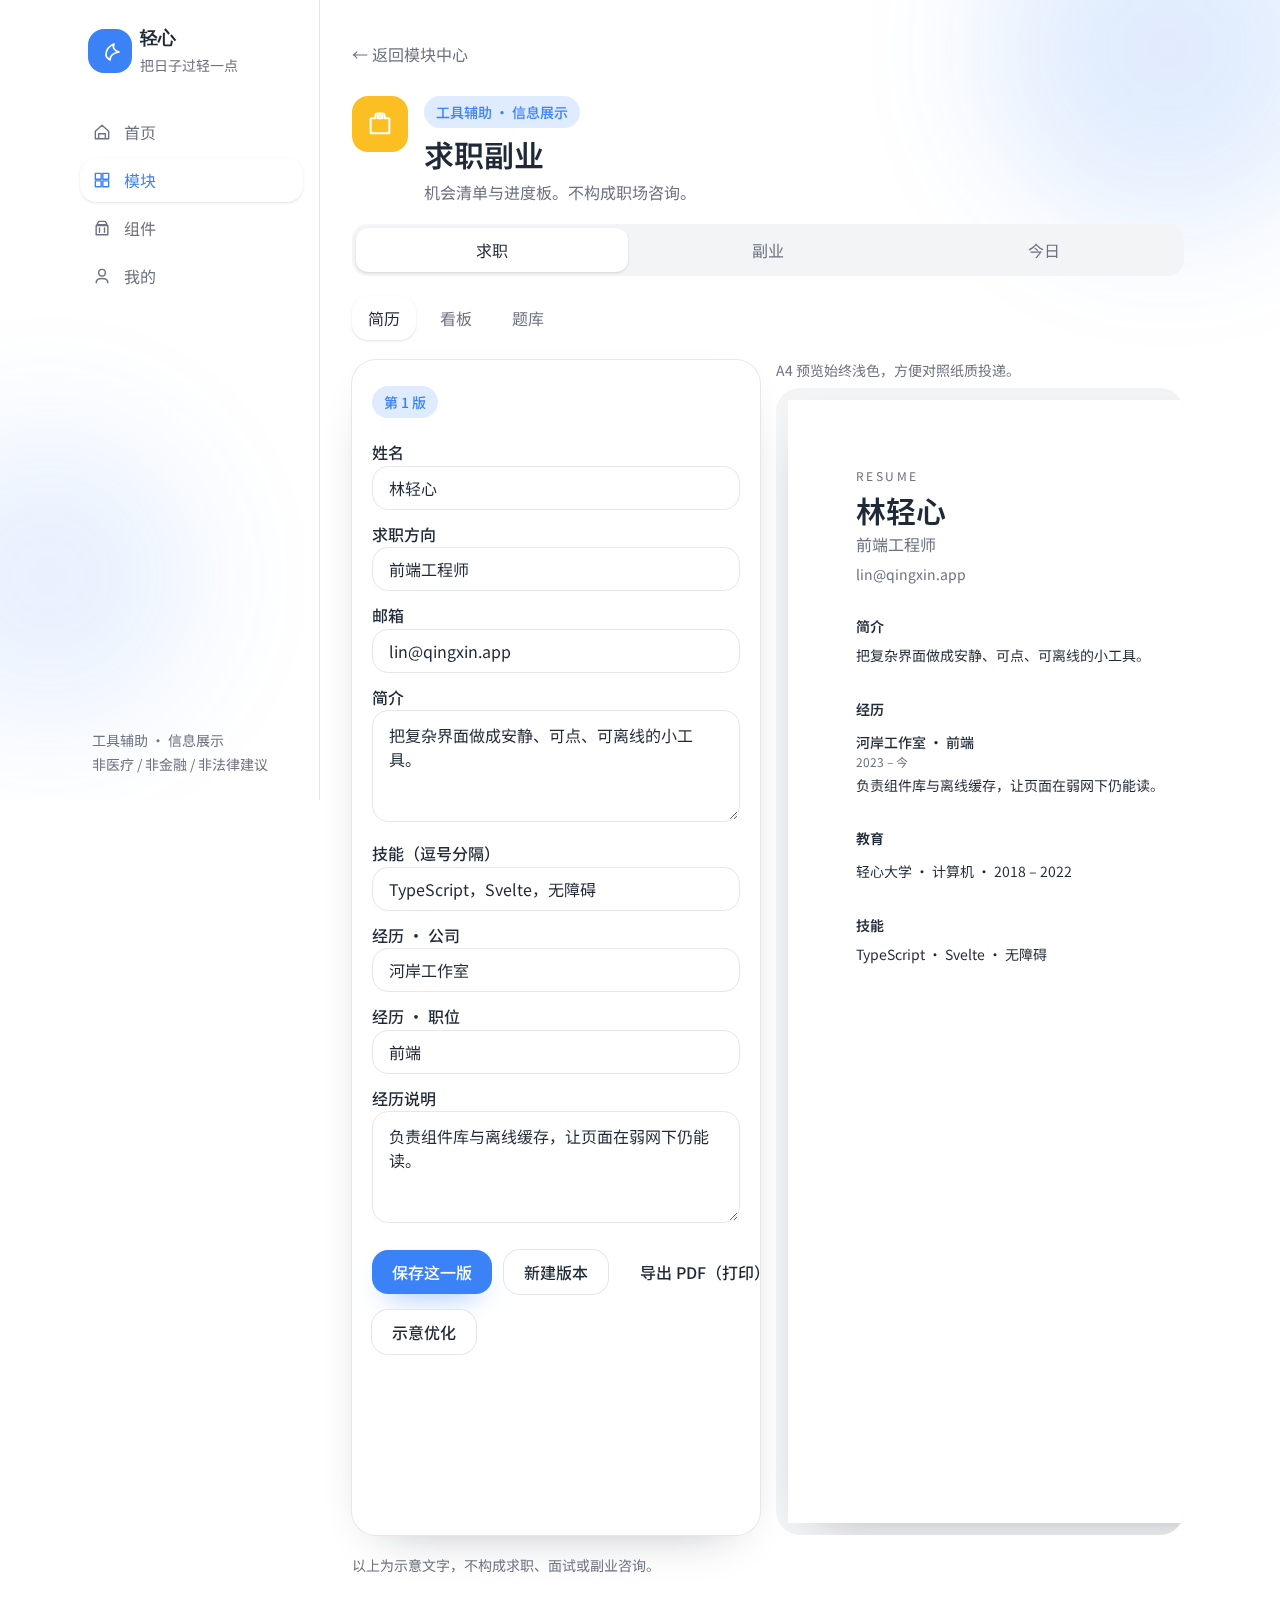
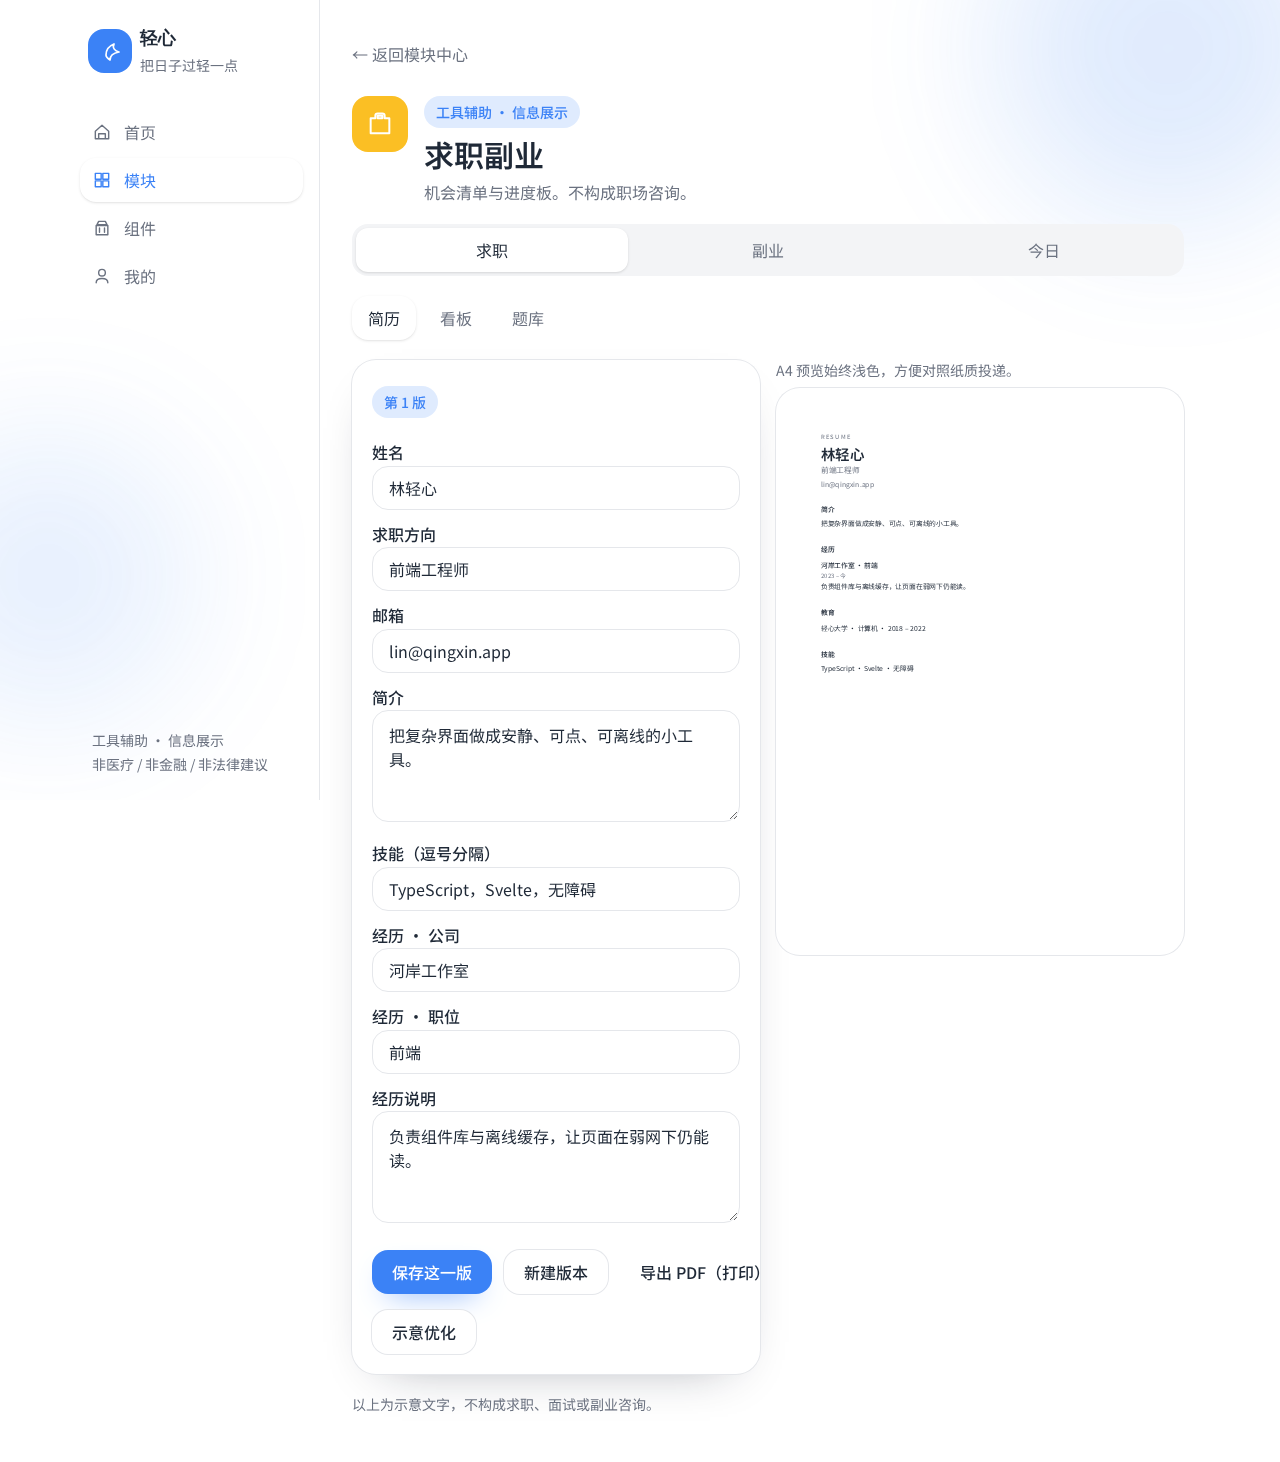
fix(create): stub generate when the AI gateway fails (#33)
Ollama-down Failed used to 503 /v1/create/generate and block 生成/保存.
Fall back to the same zh-CN deterministic stub the toolbox uses.
Scale the hustle A4 preview to the shell width in a light well.

Refs #32

diff --git a/web/e2e/api.e2e.ts b/web/e2e/api.e2e.ts
@@ -130,6 +130,69 @@ test('salary, subscription, job, water, and elder modal use the live API', async
 	await expect(page.getByRole('heading', { name: '该吃药了' })).toBeHidden();
 });
 
+test('create generate falls back to the zh-CN stub and hustle resume fits mobile', async ({
+	page
+}) => {
+	await registerFresh(page);
+
+	const generatePosted = page.waitForResponse(
+		(res) => res.url().includes('/v1/create/generate') && res.request().method() === 'POST'
+	);
+	await page.goto('/modules/create');
+	const generateRes = await generatePosted;
+	expect(generateRes.status(), await generateRes.text()).toBe(200);
+	expect(generateRes.status()).not.toBe(503);
+	const generateJson = (await generateRes.json()) as { text?: string; source?: string };
+	expect(generateJson.text?.trim()).toBeTruthy();
+	if (generateJson.source !== 'gateway') {
+		expect(generateJson.source).toBe('mock');
+		expect(generateJson.text ?? '').toContain('示意文案');
+	}
+	await expect(page.getByRole('heading', { name: '内容创作' })).toBeVisible();
+	await expect(page.locator('#create-final')).not.toHaveValue('');
+	await expect(page.getByText('示意文案暂时不可用')).toHaveCount(0);
+	await page.screenshot({ path: 'screenshots/create-http-editor-1280.png', fullPage: true });
+	await page.getByRole('button', { name: '保存作品' }).click();
+	await expect(page.getByText('已收进作品')).toBeVisible({ timeout: 15_000 });
+
+	await page.goto('/modules/hustle');
+	await expect(page.getByRole('heading', { name: '求职副业' })).toBeVisible();
+	await page.getByRole('tab', { name: '求职' }).click();
+	await page.getByRole('button', { name: '简历', exact: true }).click();
+	await expect(page.getByText('A4 预览始终浅色').first()).toBeVisible();
+	await page.screenshot({ path: 'screenshots/hustle-http-resume-1280.png', fullPage: true });
+
+	await page.evaluate(() => {
+		localStorage.setItem('qingxin.theme', 'dark');
+		document.documentElement.classList.add('dark');
+	});
+	await page.setViewportSize({ width: 390, height: 844 });
+
+	await page.goto('/modules/create');
+	await expect(page.locator('#create-final')).not.toHaveValue('', { timeout: 15_000 });
+	await expect(page.getByText('示意文案暂时不可用')).toHaveCount(0);
+	await page.addStyleTag({ content: 'nav.fixed { position: static; }' });
+	await page.screenshot({ path: 'screenshots/create-http-editor-390-dark.png', fullPage: true });
+
+	await page.goto('/modules/hustle');
+	await page.getByRole('tab', { name: '求职' }).click();
+	await page.getByRole('button', { name: '简历', exact: true }).click();
+	await expect(page.getByText('A4 预览始终浅色').first()).toBeVisible();
+	await page.addStyleTag({ content: 'nav.fixed { position: static; }' });
+	const shell = page.locator('.resume-a4-shell');
+	await expect(shell).toBeVisible();
+	const box = await shell.boundingBox();
+	expect(box, 'A4 shell should have a box').toBeTruthy();
+	expect(box!.width).toBeLessThanOrEqual(390);
+	const scrollWidth = await page.evaluate(() => document.documentElement.scrollWidth);
+	expect(scrollWidth).toBeLessThanOrEqual(392);
+	const sheetBg = await page
+		.locator('.resume-a4')
+		.evaluate((el) => getComputedStyle(el).backgroundColor);
+	expect(sheetBg.replace(/\s/g, '')).toMatch(/rgb\(255,255,255\)|#ffffff/i);
+	await page.screenshot({ path: 'screenshots/hustle-http-resume-390-dark.png', fullPage: true });
+});
+
 test('AI toolbox streams through /v1/tools and persists history', async ({ page }) => {
 	await registerFresh(page);
 	await page.goto('/modules/ai');

diff --git a/web/src/lib/hustle/resume.spec.ts b/web/src/lib/hustle/resume.spec.ts
@@ -1,3 +1,6 @@
+import { readFileSync } from 'node:fs';
+import { dirname, join } from 'node:path';
+import { fileURLToPath } from 'node:url';
 import { describe, expect, it } from 'vitest';
 import {
 	A4_COLORS,
@@ -5,6 +8,11 @@ import {
 	resumeToPrintableHtml,
 	validateResumeContent
 } from './resume';
+
+const layoutCss = readFileSync(
+	join(dirname(fileURLToPath(import.meta.url)), '../../routes/layout.css'),
+	'utf8'
+);
 
 describe('resume helpers', () => {
 	it('requires a name', () => {
@@ -19,6 +27,14 @@ describe('resume helpers', () => {
 		expect(resumePreviewClass).toBe('resume-a4');
 		expect(A4_COLORS.background).toBe('#FFFFFF');
 		expect(A4_COLORS.text).toBe('#1F2937');
+	});
+
+	it('scales the A4 sheet to the shell width instead of a cramped fixed factor', () => {
+		expect(layoutCss).toMatch(/\.resume-a4-shell[\s\S]*container-type:\s*inline-size/);
+		expect(layoutCss).toMatch(/\.resume-a4-shell[\s\S]*aspect-ratio:\s*210\s*\/\s*297/);
+		expect(layoutCss).toContain('100cqi');
+		expect(layoutCss).toMatch(/\.resume-a4[\s\S]*color-scheme:\s*light/);
+		expect(layoutCss).not.toContain('297mm * 0.46');
 	});
 
 	it('builds printable HTML that stays light and includes the name', () => {

diff --git a/web/e2e/screenshots.e2e.ts b/web/e2e/screenshots.e2e.ts
@@ -223,6 +223,20 @@ for (const view of views) {
 				await page.getByRole('tab', { name: screen.tab }).click();
 				await page.getByRole('button', { name: screen.chip, exact: true }).click();
 				await expect(page.getByText(screen.ready).first()).toBeVisible();
+				if (screen.key === 'resume') {
+					const shell = page.locator('.resume-a4-shell');
+					await expect(shell).toBeVisible();
+					const box = await shell.boundingBox();
+					expect(box, 'A4 shell should have a box').toBeTruthy();
+					expect(box!.width).toBeLessThanOrEqual(view.width);
+					const sheet = page.locator('.resume-a4');
+					const bg = await sheet.evaluate((el) => getComputedStyle(el).backgroundColor);
+					expect(bg.replace(/\s/g, '')).toMatch(/rgb\(255,255,255\)|#ffffff/i);
+					if (view.width <= 390) {
+						const scrollWidth = await page.evaluate(() => document.documentElement.scrollWidth);
+						expect(scrollWidth).toBeLessThanOrEqual(view.width + 2);
+					}
+				}
 				if (view.width < 800) {
 					await page.addStyleTag({ content: 'nav.fixed { position: static; }' });
 				}

diff --git a/web/src/routes/modules/hustle/+page.svelte b/web/src/routes/modules/hustle/+page.svelte
@@ -389,7 +389,7 @@
 			</div>
 
 			{#if jobPane === 'resume'}
-				<div class="grid gap-4 lg:grid-cols-[minmax(0,1fr)_minmax(0,1fr)]">
+				<div class="grid min-w-0 gap-4 lg:grid-cols-[minmax(0,1fr)_minmax(0,1fr)]">
 					<Card>
 						<div class="mb-4 flex flex-wrap gap-2">
 							{#each resumes as item (item.id)}
@@ -444,11 +444,16 @@
 							<p class="mt-2 text-sm text-[var(--qx-muted)]">{optimize.disclaimer}</p>
 						{/if}
 					</Card>
-					<div>
+					<div class="w-full min-w-0">
 						<p class="mb-2 text-sm text-[var(--qx-muted)]">A4 预览始终浅色，方便对照纸质投递。</p>
-						<div class="resume-a4-shell rounded-3xl bg-[var(--qx-surface)] p-3">
-							<div class="resume-a4-fit">
-								<ResumePreview {content} />
+						<div
+							class="min-w-0 overflow-hidden rounded-3xl bg-white p-3 ring-1 ring-[var(--qx-line)]"
+							style="color-scheme: light"
+						>
+							<div class="resume-a4-shell">
+								<div class="resume-a4-fit">
+									<ResumePreview {content} />
+								</div>
 							</div>
 						</div>
 					</div>

diff --git a/web/src/routes/layout.css b/web/src/routes/layout.css
@@ -178,18 +178,18 @@ dialog::backdrop {
 }
 
 .resume-a4-shell {
+	container-type: inline-size;
 	overflow: hidden;
+	width: 100%;
+	max-width: 210mm;
+	aspect-ratio: 210 / 297;
+	color-scheme: light;
 }
 
-@media (max-width: 800px) {
-	.resume-a4-shell {
-		height: calc(297mm * 0.46);
-	}
-
-	.resume-a4-fit {
-		transform: scale(0.46);
-		transform-origin: top left;
-	}
+.resume-a4-fit {
+	width: 210mm;
+	transform-origin: top left;
+	transform: scale(calc(100cqi / 210mm));
 }
 
 .dark .hustle-kanban-card {

diff --git a/api/tests/create.rs b/api/tests/create.rs
@@ -72,6 +72,19 @@ async fn register_user(router: &axum::Router, email: &str) -> Value {
     body
 }
 
+struct FailingGateway;
+
+#[async_trait::async_trait]
+impl AiGateway for FailingGateway {
+    async fn complete(
+        &self,
+        _user_id: &str,
+        _req: CompletionRequest,
+    ) -> Result<CompletionResponse, AiError> {
+        Err(AiError::Failed("connection refused".into()))
+    }
+}
+
 struct FixedGateway;
 
 #[async_trait::async_trait]
@@ -506,6 +519,37 @@ async fn ai_generate_titles_polish_outline_mock_and_gateway() {
     assert_eq!(status, StatusCode::OK, "{gated_outline}");
     assert_eq!(gated_outline["source"], "gateway");
     assert_eq!(gated_outline["title"], "gateway-sentence");
+}
+
+#[tokio::test]
+async fn generate_falls_back_to_stub_when_gateway_provider_fails() {
+    let (router, mut state) = world().await;
+    let created = register_user(&router, "fail-create@qingxin.app").await;
+    let access = created["access_token"].as_str().unwrap();
+    state.ai = Arc::new(FailingGateway);
+    let router = app(state);
+
+    let (status, gen) = send(
+        &router,
+        Method::POST,
+        "/v1/create/generate",
+        Some(("Bearer", access)),
+        Some(json!({
+            "platform": "小红书",
+            "topic": "阳台种菜",
+            "keywords": ["番茄"],
+            "tone": "更专业",
+            "length": "短"
+        })),
+    )
+    .await;
+    assert_eq!(status, StatusCode::OK, "{gen}");
+    assert_ne!(status, StatusCode::SERVICE_UNAVAILABLE);
+    assert_eq!(gen["source"], "mock");
+    let text = gen["text"].as_str().unwrap();
+    assert!(text.contains("阳台种菜"), "{text}");
+    assert!(text.contains("示意文案"), "{text}");
+    assert!(gen["disclaimer"].as_str().unwrap().contains("不构成"));
 }
 
 #[tokio::test]

diff --git a/api/src/create.rs b/api/src/create.rs
@@ -301,8 +301,9 @@ async fn complete_or_mock(
     };
     match state.ai.complete(user_id, req).await {
         Ok(done) if !done.content.trim().is_empty() => Ok((done.content, "gateway")),
-        Ok(_) | Err(AiError::Unconfigured) => Ok((fallback, "mock")),
-        Err(AiError::Failed(msg)) => Err(AppError::Unavailable(msg)),
+        // Unconfigured *and* provider failure (Ollama down) use the zh-CN stub,
+        // same as the AI toolbox workbench — returning 503 blocked 生成/保存.
+        Ok(_) | Err(AiError::Unconfigured) | Err(AiError::Failed(_)) => Ok((fallback, "mock")),
     }
 }
 
